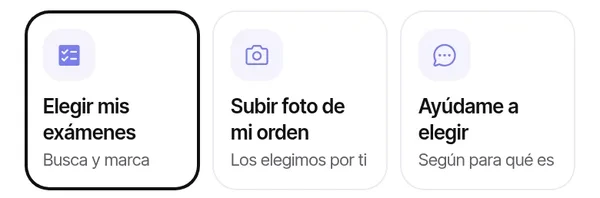
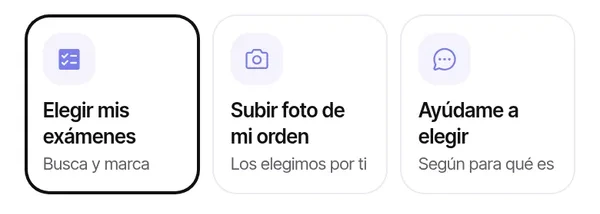
web v13: sin fondo oscuro en el hueco, bordes menos redondeados, más aire bajo las piezas

diff --git a/web/index.html b/web/index.html
@@ -1,18 +1,18 @@
 <!doctype html><html lang="es-CL"><head><meta charset="utf-8"><meta name="viewport" content="width=device-width,initial-scale=1">
 <title>Cuidapp · Enfermería, exámenes y tu ficha de salud en casa</title>
 <meta name="description" content="Enfermeras y TENS verificadas a domicilio, exámenes en casa o en un laboratorio cerca, ficha de salud familiar y reembolso automático a tu Isapre. Santiago.">
-<link rel="icon" href="assets/logo/favicon.svg?v=20261026v12">
-<link rel="preload" href="assets/fonts/InterTight.ttf?v=20261026v12" as="font" type="font/ttf" crossorigin>
-<link rel="stylesheet" href="styles.css?v=20261026v12">
+<link rel="icon" href="assets/logo/favicon.svg?v=20261026v13">
+<link rel="preload" href="assets/fonts/InterTight.ttf?v=20261026v13" as="font" type="font/ttf" crossorigin>
+<link rel="stylesheet" href="styles.css?v=20261026v13">
 <script>if(!matchMedia('(prefers-reduced-motion: reduce)').matches){document.documentElement.classList.add('motion');setTimeout(function(){if(!window.__cuidaReady)document.documentElement.classList.remove('motion')},2500)}</script>
 </head><body>
-<header class="nav"><div class="nav-in"><a class="logo" href="#top" aria-label="Cuidapp, inicio"><img src="assets/logo/cuidapp-horizontal-color.svg?v=20261026v12" alt="Cuidapp" width="84" height="36"></a>
-<img class="nav-mark" src="assets/logo/cuidapp-simbolo-color.svg?v=20261026v12" alt="" width="20" height="27">
+<header class="nav"><div class="nav-in"><a class="logo" href="#top" aria-label="Cuidapp, inicio"><img src="assets/logo/cuidapp-horizontal-color.svg?v=20261026v13" alt="Cuidapp" width="84" height="36"></a>
+<img class="nav-mark" src="assets/logo/cuidapp-simbolo-color.svg?v=20261026v13" alt="" width="20" height="27">
 <a class="btn btn-ink btn-s" href="../?v=m#/P06">Reservar</a></div></header>
 <main><section class="hero" id="top"><div class="hero-in">
-<img class="mark hx" src="assets/logo/cuidapp-simbolo-color.svg?v=20261026v12" alt="" width="54" height="72">
-<h1 class="hl"><span class="l1 hx">Cuidapp<img class="ii" src="assets/emoji/heart.webp?v=20261026v12" alt="" width="64" height="64">, y tienes</span>
-<span class="l2 hx"><span class="sr">una enfermera en tu casa, tus exámenes sin filas, tu ficha siempre contigo y tu reembolso sin trámites</span><span class="rot" aria-hidden="true"><span class="rw on">una enfermera en tu <span class="nw">casa<img class="ii" src="assets/emoji/iny.webp?v=20261026v12" alt="" width="64" height="64"></span></span><span class="rw">tus exámenes sin <span class="nw">filas<img class="ii" src="assets/emoji/drop_of_blood.webp?v=20261026v12" alt="" width="64" height="64"></span></span><span class="rw">tu ficha siempre <span class="nw">contigo<img class="ii" src="assets/emoji/ficha.webp?v=20261026v12" alt="" width="64" height="64"></span></span><span class="rw">tu reembolso sin <span class="nw">trámites<img class="ii" src="assets/emoji/coin.webp?v=20261026v12" alt="" width="64" height="64"></span></span></span></span></h1>
+<img class="mark hx" src="assets/logo/cuidapp-simbolo-color.svg?v=20261026v13" alt="" width="54" height="72">
+<h1 class="hl"><span class="l1 hx">Cuidapp<img class="ii" src="assets/emoji/heart.webp?v=20261026v13" alt="" width="64" height="64">, y tienes</span>
+<span class="l2 hx"><span class="sr">una enfermera en tu casa, tus exámenes sin filas, tu ficha siempre contigo y tu reembolso sin trámites</span><span class="rot" aria-hidden="true"><span class="rw on">una enfermera en tu <span class="nw">casa<img class="ii" src="assets/emoji/iny.webp?v=20261026v13" alt="" width="64" height="64"></span></span><span class="rw">tus exámenes sin <span class="nw">filas<img class="ii" src="assets/emoji/drop_of_blood.webp?v=20261026v13" alt="" width="64" height="64"></span></span><span class="rw">tu ficha siempre <span class="nw">contigo<img class="ii" src="assets/emoji/ficha.webp?v=20261026v13" alt="" width="64" height="64"></span></span><span class="rw">tu reembolso sin <span class="nw">trámites<img class="ii" src="assets/emoji/coin.webp?v=20261026v13" alt="" width="64" height="64"></span></span></span></span></h1>
 <form class="ask" onsubmit="location.href='../?v=m#/P06';return false">
 <label class="lbl hx" for="q">¿Qué necesitas hoy?</label>
 <input class="hx" id="q" name="q" type="text" autocomplete="off" placeholder="Una inyección de vitamina B12">
@@ -24,11 +24,11 @@
 </section><section class="todo band-g" id="todo"><div class="wrap c">
 <h2 class="h2 rv">Cuidado de salud para todo en tu casa</h2>
 <p class="sub rv">Dinos qué necesitas y nos encargamos del resto: desde una inyección o una curación hasta tus exámenes, la ficha de tu familia y el reembolso de tu Isapre.</p>
-<div class="tray rv"><span class="tc"><img class="emo " src="assets/emoji/iny.webp?v=20261026v12" alt="" width="72" height="72" loading="lazy"></span><span class="tc"><img class="emo " src="assets/emoji/vit.webp?v=20261026v12" alt="" width="72" height="72" loading="lazy"></span><span class="tc"><img class="emo " src="assets/emoji/cur.webp?v=20261026v12" alt="" width="72" height="72" loading="lazy"></span><span class="tc"><img class="emo " src="assets/emoji/mue.webp?v=20261026v12" alt="" width="72" height="72" loading="lazy"></span><span class="tc"><img class="emo " src="assets/emoji/cron.webp?v=20261026v12" alt="" width="72" height="72" loading="lazy"></span><span class="tc"><img class="emo " src="assets/emoji/sig.webp?v=20261026v12" alt="" width="72" height="72" loading="lazy"></span><span class="tc"><img class="emo " src="assets/emoji/pd.webp?v=20261026v12" alt="" width="72" height="72" loading="lazy"></span><span class="tc"><img class="emo " src="assets/emoji/turn.webp?v=20261026v12" alt="" width="72" height="72" loading="lazy"></span><span class="tc"><img class="emo " src="assets/emoji/heart.webp?v=20261026v12" alt="" width="72" height="72" loading="lazy"></span><span class="tc"><img class="emo " src="assets/emoji/ficha.webp?v=20261026v12" alt="" width="72" height="72" loading="lazy"></span><span class="tc"><img class="emo " src="assets/emoji/coin.webp?v=20261026v12" alt="" width="72" height="72" loading="lazy"></span><span class="tc"><img class="emo " src="assets/emoji/cura.webp?v=20261026v12" alt="" width="72" height="72" loading="lazy"></span><span class="tc"><img class="emo " src="assets/emoji/son.webp?v=20261026v12" alt="" width="72" height="72" loading="lazy"></span><span class="tc"><img class="emo " src="assets/emoji/tens4.webp?v=20261026v12" alt="" width="72" height="72" loading="lazy"></span><span class="tc"><img class="emo " src="assets/emoji/hw.webp?v=20261026v12" alt="" width="72" height="72" loading="lazy"></span><span class="tc"><img class="emo " src="assets/emoji/house.webp?v=20261026v12" alt="" width="72" height="72" loading="lazy"></span><span class="tc"><img class="emo " src="assets/emoji/microscope.webp?v=20261026v12" alt="" width="72" height="72" loading="lazy"></span><span class="tc"><img class="emo " src="assets/emoji/tearoff_calendar.webp?v=20261026v12" alt="" width="72" height="72" loading="lazy"></span></div>
-</div></section><section class="row band-w side-l" id="enfermera"><div class="wrap row-g"><div class="mock"><div class="phn"><img src="assets/phone/P12.webp?v=20261026v12" alt="Perfil de Camila Rojas con reseñas y precio" width="600" height="1298" loading="lazy"><span class="hole" aria-hidden="true" style="top:87.0px;height:122.2px"></span><img class="pop pop-l" src="assets/pop/perfil.webp?v=20261026v12" alt="Camila Rojas, enfermera, 6 años de experiencia, 4,9 estrellas, SIS verificado, antecedentes revisados, identidad verificada" width="600" height="260" loading="lazy" style="top:87.0px"></div><div class="bo push pa" role="img" aria-label="Notificación de Cuidapp: Tu código de atención. Tu código es 2749. Dáselo a Camila cuando llegue."><div class="push-h"><img src="assets/logo/apple-touch-icon.png?v=20261026v12" alt="" width="20" height="20"><span>Cuidapp</span><span class="t3">ahora</span></div><b>Tu código de atención</b><span>Tu código es 2749. Dáselo a Camila cuando llegue.</span></div><img class="bo bo-b" src="assets/ui/promo.webp?v=20261026v12" alt="Primera atención: 15% de descuento con CUIDA15, hasta $20.000" width="309" loading="lazy"><img class="emo e1" src="assets/emoji/iny.webp?v=20261026v12" alt="" width="64" height="64" loading="lazy"><img class="emo e2" src="assets/emoji/hw.webp?v=20261026v12" alt="" width="64" height="64" loading="lazy"></div><div class="txt"><h2 class="h3 rv">Una enfermera de confianza, en tu puerta</h2><p class="body rv">Enfermeras y TENS con registro verificado en la Superintendencia de Salud. Ves su perfil, sus reseñas y el precio antes de reservar. Desde $15.000.</p></div></div></section><section class="row band-g side-r" id="examenes"><div class="wrap row-g"><div class="mock"><div class="phn"><img src="assets/phone/examenes.webp?v=20261026v12" alt="Exámenes de laboratorio con precio por examen" width="600" height="1298" loading="lazy"><span class="hole" aria-hidden="true" style="top:106.8px;height:93.1px"></span><img class="pop pop-r" src="assets/pop/opciones.webp?v=20261026v12" alt="Elegir mis exámenes, subir foto de mi orden o pedir ayuda para elegir" width="600" height="198" loading="lazy" style="top:106.8px"></div><div class="bo push pc" role="img" aria-label="Notificación de Cuidapp: Los resultados de Rosa están listos. Los ves en su ficha. La notificación no incluye valores."><div class="push-h"><img src="assets/logo/apple-touch-icon.png?v=20261026v12" alt="" width="20" height="20"><span>Cuidapp</span><span class="t3">ahora</span></div><b>Los resultados de Rosa están listos</b><span>Los ves en su ficha. La notificación no incluye valores.</span></div><img class="emo e3" src="assets/emoji/mue.webp?v=20261026v12" alt="" width="64" height="64" loading="lazy"><img class="emo e4" src="assets/emoji/microscope.webp?v=20261026v12" alt="" width="64" height="64" loading="lazy"></div><div class="txt"><h2 class="h3 rv">Exámenes en casa, sin hacer fila</h2><p class="body rv">655 exámenes para elegir. Toman la muestra en tu casa o eliges un laboratorio cerca, con orden médica o sin ella. Los resultados llegan solos a la ficha.</p></div></div></section><section class="row band-w side-l" id="ficha"><div class="wrap row-g"><div class="mock"><div class="phn"><img src="assets/phone/linea.webp?v=20261026v12" alt="Línea de tiempo de Rosa con visitas, curaciones y signos vitales" width="600" height="1298" loading="lazy"><span class="hole" aria-hidden="true" style="top:150.9px;height:88.4px"></span><img class="pop pop-l" src="assets/pop/visita.webp?v=20261026v12" alt="Hoy: inyección IM y curación, registrada por Camila Rojas, enfermera" width="600" height="188" loading="lazy" style="top:150.9px"></div><div class="bo push pd" role="img" aria-label="Notificación de Cuidapp: Resumen de la visita de Rosa. Signos vitales, curación, indicaciones y próximo control."><div class="push-h"><img src="assets/logo/apple-touch-icon.png?v=20261026v12" alt="" width="20" height="20"><span>Cuidapp</span><span class="t3">ahora</span></div><b>Resumen de la visita de Rosa</b><span>Signos vitales, curación, indicaciones y próximo control.</span></div><img class="emo e5" src="assets/emoji/ficha.webp?v=20261026v12" alt="" width="64" height="64" loading="lazy"><img class="emo e6" src="assets/emoji/sig.webp?v=20261026v12" alt="" width="64" height="64" loading="lazy"></div><div class="txt"><h2 class="h3 rv">La ficha de tu familia, siempre contigo</h2><p class="body rv">Resultados, signos vitales, curaciones y controles de cada persona, en orden. La compartes con tu médico cuando quieras.</p></div></div></section><section class="row band-g side-r" id="reembolso"><div class="wrap row-g"><div class="mock"><div class="phn"><img src="assets/phone/reembolso.webp?v=20261026v12" alt="Reembolso de Vitamina D con su estado" width="600" height="1298" loading="lazy"><span class="hole" aria-hidden="true" style="top:190.4px;height:76.1px"></span><img class="pop pop-r" src="assets/pop/montos.webp?v=20261026v12" alt="Monto presentado $31.400, monto reembolsado $18.840, gestión Cuidapp $3.500" width="600" height="162" loading="lazy" style="top:190.4px"></div><div class="bo push pe" role="img" aria-label="Notificación de Cuidapp: Tu reembolso fue pagado. Tu Isapre lo depositó en tu cuenta."><div class="push-h"><img src="assets/logo/apple-touch-icon.png?v=20261026v12" alt="" width="20" height="20"><span>Cuidapp</span><span class="t3">ahora</span></div><b>Tu reembolso fue pagado</b><span>Tu Isapre lo depositó en tu cuenta.</span></div><img class="emo e7" src="assets/emoji/coin.webp?v=20261026v12" alt="" width="64" height="64" loading="lazy"><img class="emo e8" src="assets/emoji/money.webp?v=20261026v12" alt="" width="64" height="64" loading="lazy"></div><div class="txt"><h2 class="h3 rv">Tu reembolso, sin trámites</h2><p class="body rv">Vinculas tu Isapre una vez. Después de cada atención enviamos la boleta y la orden, y sigues la solicitud hasta el pago. La gestión cuesta $3.500.</p><p class="note">Sujeto a las condiciones de cada Isapre. Información general, no es asesoría legal.</p></div></div></section><section class="row band-w side-l" id="isapre"><div class="wrap row-g"><div class="mock"><div class="phn"><img src="assets/phone/cotiza.webp?v=20261026v12" alt="Cotiza tu Isapre: renta, cargas y previsión actual" width="600" height="1298" loading="lazy"><span class="hole" aria-hidden="true" style="top:130.3px;height:76.1px"></span><img class="pop pop-l" src="assets/pop/edad.webp?v=20261026v12" alt="Tu edad: 30 a 39 seleccionado" width="600" height="162" loading="lazy" style="top:130.3px"></div><div class="bo push pf" role="img" aria-label="Notificación de Cuidapp: Recibiste una cotización. Una asesora de Isapre te envió su propuesta."><div class="push-h"><img src="assets/logo/apple-touch-icon.png?v=20261026v12" alt="" width="20" height="20"><span>Cuidapp</span><span class="t3">ahora</span></div><b>Recibiste una cotización</b><span>Una asesora de Isapre te envió su propuesta.</span></div><img class="emo e9" src="assets/emoji/brief.webp?v=20261026v12" alt="" width="64" height="64" loading="lazy"><img class="emo e10" src="assets/emoji/house.webp?v=20261026v12" alt="" width="64" height="64" loading="lazy"></div><div class="txt"><h2 class="h3 rv">Cotiza tu Isapre sin salir de casa</h2><p class="body rv">Cuentas tu edad, tu renta y tus cargas, y asesores de Isapre te mandan su cotización. Es gratis para ti.</p></div></div></section><section class="info band-w" id="info"><div class="wrap info-g"><div><h2 class="h3 rv">Más información sobre Cuidapp</h2><p class="body rv">Lo que más nos preguntan, y cómo sumarte si trabajas en salud.</p></div>
-<div class="list"><details class="li rv"><summary><img class="emo li-i" src="assets/emoji/heart.webp?v=20261026v12" alt="" width="40" height="40" loading="lazy"><span>¿Quiénes me atienden?</span><svg class="chev" viewBox="0 0 20 20" aria-hidden="true"><path d="m8 5 5 5-5 5" fill="none" stroke="currentColor" stroke-width="1.8" stroke-linecap="round" stroke-linejoin="round"/></svg></summary><p>Enfermeras y TENS. Antes de atender revisamos su registro en la Superintendencia de Salud, su identidad y sus antecedentes.</p></details><details class="li rv"><summary><img class="emo li-i" src="assets/emoji/mue.webp?v=20261026v12" alt="" width="40" height="40" loading="lazy"><span>¿Necesito orden médica para hacerme exámenes?</span><svg class="chev" viewBox="0 0 20 20" aria-hidden="true"><path d="m8 5 5 5-5 5" fill="none" stroke="currentColor" stroke-width="1.8" stroke-linecap="round" stroke-linejoin="round"/></svg></summary><p>No es obligatoria. Eliges tus exámenes, subes la foto de tu orden o pides ayuda. Para inyecciones y algunos tratamientos sí te pediremos la receta.</p></details><details class="li rv"><summary><img class="emo li-i" src="assets/emoji/coin.webp?v=20261026v12" alt="" width="40" height="40" loading="lazy"><span>¿Cómo pago? ¿Hay descuento?</span><svg class="chev" viewBox="0 0 20 20" aria-hidden="true"><path d="m8 5 5 5-5 5" fill="none" stroke="currentColor" stroke-width="1.8" stroke-linecap="round" stroke-linejoin="round"/></svg></summary><p>Pagas con tarjeta al reservar y ves el total antes de confirmar. En tu primera atención tienes 15% de descuento, hasta $20.000, con CUIDA15.</p></details><details class="li rv"><summary><img class="emo li-i" src="assets/emoji/ficha.webp?v=20261026v12" alt="" width="40" height="40" loading="lazy"><span>¿Cómo funciona el reembolso automático?</span><svg class="chev" viewBox="0 0 20 20" aria-hidden="true"><path d="m8 5 5 5-5 5" fill="none" stroke="currentColor" stroke-width="1.8" stroke-linecap="round" stroke-linejoin="round"/></svg></summary><p>Vinculas tu Isapre una vez y enviamos la boleta, la orden médica y tu carnet después de cada atención. La gestión cuesta $3.500 y sigues cada solicitud hasta el pago.</p></details><p class="list-h rv" id="aliados">¿Trabajas en salud?</p><a class="li rv" href="../?v=m#/R01"><img class="emo li-i" src="assets/emoji/hw.webp?v=20261026v12" alt="" width="40" height="40" loading="lazy"><span><b>Enfermeras y TENS</b><small>Postula hoy. Kinesiología, psicología y nutrición, muy pronto.</small></span><svg class="chev" viewBox="0 0 20 20" aria-hidden="true"><path d="m8 5 5 5-5 5" fill="none" stroke="currentColor" stroke-width="1.8" stroke-linecap="round" stroke-linejoin="round"/></svg></a><a class="li rv" href="mailto:marceleon91@gmail.com?subject=Quiero%20ser%20aliado%20de%20Cuidapp"><img class="emo li-i" src="assets/emoji/microscope.webp?v=20261026v12" alt="" width="40" height="40" loading="lazy"><span><b>Laboratorios</b><small>Súmate gratis a «Laboratorios cerca de ti».</small></span><svg class="chev" viewBox="0 0 20 20" aria-hidden="true"><path d="m8 5 5 5-5 5" fill="none" stroke="currentColor" stroke-width="1.8" stroke-linecap="round" stroke-linejoin="round"/></svg></a><a class="li rv" href="mailto:marceleon91@gmail.com?subject=Quiero%20ser%20aliado%20de%20Cuidapp"><img class="emo li-i" src="assets/emoji/brief.webp?v=20261026v12" alt="" width="40" height="40" loading="lazy"><span><b>Asesores de Isapre</b><small>Recibe solicitudes de cotización con un plan mensual.</small></span><svg class="chev" viewBox="0 0 20 20" aria-hidden="true"><path d="m8 5 5 5-5 5" fill="none" stroke="currentColor" stroke-width="1.8" stroke-linecap="round" stroke-linejoin="round"/></svg></a><a class="li rv" href="mailto:marceleon91@gmail.com?subject=Quiero%20ser%20aliado%20de%20Cuidapp"><img class="emo li-i" src="assets/emoji/vit.webp?v=20261026v12" alt="" width="40" height="40" loading="lazy"><span><b>Farmacias</b><small>Entrega de medicamentos. <span class="tag">Muy pronto</span></small></span><svg class="chev" viewBox="0 0 20 20" aria-hidden="true"><path d="m8 5 5 5-5 5" fill="none" stroke="currentColor" stroke-width="1.8" stroke-linecap="round" stroke-linejoin="round"/></svg></a></div></div></section><section class="cta band-w"><div class="wrap c"><h2 class="h2 rv">¿Agendamos tu primera atención?</h2>
+<div class="tray rv"><span class="tc"><img class="emo " src="assets/emoji/iny.webp?v=20261026v13" alt="" width="72" height="72" loading="lazy"></span><span class="tc"><img class="emo " src="assets/emoji/vit.webp?v=20261026v13" alt="" width="72" height="72" loading="lazy"></span><span class="tc"><img class="emo " src="assets/emoji/cur.webp?v=20261026v13" alt="" width="72" height="72" loading="lazy"></span><span class="tc"><img class="emo " src="assets/emoji/mue.webp?v=20261026v13" alt="" width="72" height="72" loading="lazy"></span><span class="tc"><img class="emo " src="assets/emoji/cron.webp?v=20261026v13" alt="" width="72" height="72" loading="lazy"></span><span class="tc"><img class="emo " src="assets/emoji/sig.webp?v=20261026v13" alt="" width="72" height="72" loading="lazy"></span><span class="tc"><img class="emo " src="assets/emoji/pd.webp?v=20261026v13" alt="" width="72" height="72" loading="lazy"></span><span class="tc"><img class="emo " src="assets/emoji/turn.webp?v=20261026v13" alt="" width="72" height="72" loading="lazy"></span><span class="tc"><img class="emo " src="assets/emoji/heart.webp?v=20261026v13" alt="" width="72" height="72" loading="lazy"></span><span class="tc"><img class="emo " src="assets/emoji/ficha.webp?v=20261026v13" alt="" width="72" height="72" loading="lazy"></span><span class="tc"><img class="emo " src="assets/emoji/coin.webp?v=20261026v13" alt="" width="72" height="72" loading="lazy"></span><span class="tc"><img class="emo " src="assets/emoji/cura.webp?v=20261026v13" alt="" width="72" height="72" loading="lazy"></span><span class="tc"><img class="emo " src="assets/emoji/son.webp?v=20261026v13" alt="" width="72" height="72" loading="lazy"></span><span class="tc"><img class="emo " src="assets/emoji/tens4.webp?v=20261026v13" alt="" width="72" height="72" loading="lazy"></span><span class="tc"><img class="emo " src="assets/emoji/hw.webp?v=20261026v13" alt="" width="72" height="72" loading="lazy"></span><span class="tc"><img class="emo " src="assets/emoji/house.webp?v=20261026v13" alt="" width="72" height="72" loading="lazy"></span><span class="tc"><img class="emo " src="assets/emoji/microscope.webp?v=20261026v13" alt="" width="72" height="72" loading="lazy"></span><span class="tc"><img class="emo " src="assets/emoji/tearoff_calendar.webp?v=20261026v13" alt="" width="72" height="72" loading="lazy"></span></div>
+</div></section><section class="row band-w side-l" id="enfermera"><div class="wrap row-g"><div class="mock"><div class="phn"><img src="assets/phone/P12.webp?v=20261026v13" alt="Perfil de Camila Rojas con reseñas y precio" width="600" height="1298" loading="lazy"><span class="hole" aria-hidden="true" style="top:87.0px;height:129.7px"></span><img class="pop pop-l" src="assets/pop/perfil.webp?v=20261026v13" alt="Camila Rojas, enfermera, 6 años de experiencia, 4,9 estrellas, SIS verificado, antecedentes revisados, identidad verificada" width="600" height="276" loading="lazy" style="top:87.0px"></div><div class="bo push pa" role="img" aria-label="Notificación de Cuidapp: Tu código de atención. Tu código es 2749. Dáselo a Camila cuando llegue."><div class="push-h"><img src="assets/logo/apple-touch-icon.png?v=20261026v13" alt="" width="20" height="20"><span>Cuidapp</span><span class="t3">ahora</span></div><b>Tu código de atención</b><span>Tu código es 2749. Dáselo a Camila cuando llegue.</span></div><img class="bo bo-b" src="assets/ui/promo.webp?v=20261026v13" alt="Primera atención: 15% de descuento con CUIDA15, hasta $20.000" width="309" loading="lazy"><img class="emo e1" src="assets/emoji/iny.webp?v=20261026v13" alt="" width="64" height="64" loading="lazy"><img class="emo e2" src="assets/emoji/hw.webp?v=20261026v13" alt="" width="64" height="64" loading="lazy"></div><div class="txt"><h2 class="h3 rv">Una enfermera de confianza, en tu puerta</h2><p class="body rv">Enfermeras y TENS con registro verificado en la Superintendencia de Salud. Ves su perfil, sus reseñas y el precio antes de reservar. Desde $15.000.</p></div></div></section><section class="row band-g side-r" id="examenes"><div class="wrap row-g"><div class="mock"><div class="phn"><img src="assets/phone/examenes.webp?v=20261026v13" alt="Exámenes de laboratorio con precio por examen" width="600" height="1298" loading="lazy"><span class="hole" aria-hidden="true" style="top:104.9px;height:100.6px"></span><img class="pop pop-r" src="assets/pop/opciones.webp?v=20261026v13" alt="Elegir mis exámenes, subir foto de mi orden o pedir ayuda para elegir" width="600" height="214" loading="lazy" style="top:104.9px"></div><div class="bo push pc" role="img" aria-label="Notificación de Cuidapp: Los resultados de Rosa están listos. Los ves en su ficha. La notificación no incluye valores."><div class="push-h"><img src="assets/logo/apple-touch-icon.png?v=20261026v13" alt="" width="20" height="20"><span>Cuidapp</span><span class="t3">ahora</span></div><b>Los resultados de Rosa están listos</b><span>Los ves en su ficha. La notificación no incluye valores.</span></div><img class="emo e3" src="assets/emoji/mue.webp?v=20261026v13" alt="" width="64" height="64" loading="lazy"><img class="emo e4" src="assets/emoji/microscope.webp?v=20261026v13" alt="" width="64" height="64" loading="lazy"></div><div class="txt"><h2 class="h3 rv">Exámenes en casa, sin hacer fila</h2><p class="body rv">655 exámenes para elegir. Toman la muestra en tu casa o eliges un laboratorio cerca, con orden médica o sin ella. Los resultados llegan solos a la ficha.</p></div></div></section><section class="row band-w side-l" id="ficha"><div class="wrap row-g"><div class="mock"><div class="phn"><img src="assets/phone/linea.webp?v=20261026v13" alt="Línea de tiempo de Rosa con visitas, curaciones y signos vitales" width="600" height="1298" loading="lazy"><span class="hole" aria-hidden="true" style="top:150.0px;height:94.0px"></span><img class="pop pop-l" src="assets/pop/visita.webp?v=20261026v13" alt="Hoy: inyección IM y curación, registrada por Camila Rojas, enfermera" width="600" height="200" loading="lazy" style="top:150.0px"></div><div class="bo push pd" role="img" aria-label="Notificación de Cuidapp: Resumen de la visita de Rosa. Signos vitales, curación, indicaciones y próximo control."><div class="push-h"><img src="assets/logo/apple-touch-icon.png?v=20261026v13" alt="" width="20" height="20"><span>Cuidapp</span><span class="t3">ahora</span></div><b>Resumen de la visita de Rosa</b><span>Signos vitales, curación, indicaciones y próximo control.</span></div><img class="emo e5" src="assets/emoji/ficha.webp?v=20261026v13" alt="" width="64" height="64" loading="lazy"><img class="emo e6" src="assets/emoji/sig.webp?v=20261026v13" alt="" width="64" height="64" loading="lazy"></div><div class="txt"><h2 class="h3 rv">La ficha de tu familia, siempre contigo</h2><p class="body rv">Resultados, signos vitales, curaciones y controles de cada persona, en orden. La compartes con tu médico cuando quieras.</p></div></div></section><section class="row band-g side-r" id="reembolso"><div class="wrap row-g"><div class="mock"><div class="phn"><img src="assets/phone/reembolso.webp?v=20261026v13" alt="Reembolso de Vitamina D con su estado" width="600" height="1298" loading="lazy"><span class="hole" aria-hidden="true" style="top:188.5px;height:81.8px"></span><img class="pop pop-r" src="assets/pop/montos.webp?v=20261026v13" alt="Monto presentado $31.400, monto reembolsado $18.840, gestión Cuidapp $3.500" width="600" height="174" loading="lazy" style="top:188.5px"></div><div class="bo push pe" role="img" aria-label="Notificación de Cuidapp: Tu reembolso fue pagado. Tu Isapre lo depositó en tu cuenta."><div class="push-h"><img src="assets/logo/apple-touch-icon.png?v=20261026v13" alt="" width="20" height="20"><span>Cuidapp</span><span class="t3">ahora</span></div><b>Tu reembolso fue pagado</b><span>Tu Isapre lo depositó en tu cuenta.</span></div><img class="emo e7" src="assets/emoji/coin.webp?v=20261026v13" alt="" width="64" height="64" loading="lazy"><img class="emo e8" src="assets/emoji/money.webp?v=20261026v13" alt="" width="64" height="64" loading="lazy"></div><div class="txt"><h2 class="h3 rv">Tu reembolso, sin trámites</h2><p class="body rv">Vinculas tu Isapre una vez. Después de cada atención enviamos la boleta y la orden, y sigues la solicitud hasta el pago. La gestión cuesta $3.500.</p><p class="note">Sujeto a las condiciones de cada Isapre. Información general, no es asesoría legal.</p></div></div></section><section class="row band-w side-l" id="isapre"><div class="wrap row-g"><div class="mock"><div class="phn"><img src="assets/phone/cotiza.webp?v=20261026v13" alt="Cotiza tu Isapre: renta, cargas y previsión actual" width="600" height="1298" loading="lazy"><span class="hole" aria-hidden="true" style="top:129.3px;height:81.8px"></span><img class="pop pop-l" src="assets/pop/edad.webp?v=20261026v13" alt="Tu edad: 30 a 39 seleccionado" width="600" height="174" loading="lazy" style="top:129.3px"></div><div class="bo push pf" role="img" aria-label="Notificación de Cuidapp: Recibiste una cotización. Una asesora de Isapre te envió su propuesta."><div class="push-h"><img src="assets/logo/apple-touch-icon.png?v=20261026v13" alt="" width="20" height="20"><span>Cuidapp</span><span class="t3">ahora</span></div><b>Recibiste una cotización</b><span>Una asesora de Isapre te envió su propuesta.</span></div><img class="emo e9" src="assets/emoji/brief.webp?v=20261026v13" alt="" width="64" height="64" loading="lazy"><img class="emo e10" src="assets/emoji/house.webp?v=20261026v13" alt="" width="64" height="64" loading="lazy"></div><div class="txt"><h2 class="h3 rv">Cotiza tu Isapre sin salir de casa</h2><p class="body rv">Cuentas tu edad, tu renta y tus cargas, y asesores de Isapre te mandan su cotización. Es gratis para ti.</p></div></div></section><section class="info band-w" id="info"><div class="wrap info-g"><div><h2 class="h3 rv">Más información sobre Cuidapp</h2><p class="body rv">Lo que más nos preguntan, y cómo sumarte si trabajas en salud.</p></div>
+<div class="list"><details class="li rv"><summary><img class="emo li-i" src="assets/emoji/heart.webp?v=20261026v13" alt="" width="40" height="40" loading="lazy"><span>¿Quiénes me atienden?</span><svg class="chev" viewBox="0 0 20 20" aria-hidden="true"><path d="m8 5 5 5-5 5" fill="none" stroke="currentColor" stroke-width="1.8" stroke-linecap="round" stroke-linejoin="round"/></svg></summary><p>Enfermeras y TENS. Antes de atender revisamos su registro en la Superintendencia de Salud, su identidad y sus antecedentes.</p></details><details class="li rv"><summary><img class="emo li-i" src="assets/emoji/mue.webp?v=20261026v13" alt="" width="40" height="40" loading="lazy"><span>¿Necesito orden médica para hacerme exámenes?</span><svg class="chev" viewBox="0 0 20 20" aria-hidden="true"><path d="m8 5 5 5-5 5" fill="none" stroke="currentColor" stroke-width="1.8" stroke-linecap="round" stroke-linejoin="round"/></svg></summary><p>No es obligatoria. Eliges tus exámenes, subes la foto de tu orden o pides ayuda. Para inyecciones y algunos tratamientos sí te pediremos la receta.</p></details><details class="li rv"><summary><img class="emo li-i" src="assets/emoji/coin.webp?v=20261026v13" alt="" width="40" height="40" loading="lazy"><span>¿Cómo pago? ¿Hay descuento?</span><svg class="chev" viewBox="0 0 20 20" aria-hidden="true"><path d="m8 5 5 5-5 5" fill="none" stroke="currentColor" stroke-width="1.8" stroke-linecap="round" stroke-linejoin="round"/></svg></summary><p>Pagas con tarjeta al reservar y ves el total antes de confirmar. En tu primera atención tienes 15% de descuento, hasta $20.000, con CUIDA15.</p></details><details class="li rv"><summary><img class="emo li-i" src="assets/emoji/ficha.webp?v=20261026v13" alt="" width="40" height="40" loading="lazy"><span>¿Cómo funciona el reembolso automático?</span><svg class="chev" viewBox="0 0 20 20" aria-hidden="true"><path d="m8 5 5 5-5 5" fill="none" stroke="currentColor" stroke-width="1.8" stroke-linecap="round" stroke-linejoin="round"/></svg></summary><p>Vinculas tu Isapre una vez y enviamos la boleta, la orden médica y tu carnet después de cada atención. La gestión cuesta $3.500 y sigues cada solicitud hasta el pago.</p></details><p class="list-h rv" id="aliados">¿Trabajas en salud?</p><a class="li rv" href="../?v=m#/R01"><img class="emo li-i" src="assets/emoji/hw.webp?v=20261026v13" alt="" width="40" height="40" loading="lazy"><span><b>Enfermeras y TENS</b><small>Postula hoy. Kinesiología, psicología y nutrición, muy pronto.</small></span><svg class="chev" viewBox="0 0 20 20" aria-hidden="true"><path d="m8 5 5 5-5 5" fill="none" stroke="currentColor" stroke-width="1.8" stroke-linecap="round" stroke-linejoin="round"/></svg></a><a class="li rv" href="mailto:marceleon91@gmail.com?subject=Quiero%20ser%20aliado%20de%20Cuidapp"><img class="emo li-i" src="assets/emoji/microscope.webp?v=20261026v13" alt="" width="40" height="40" loading="lazy"><span><b>Laboratorios</b><small>Súmate gratis a «Laboratorios cerca de ti».</small></span><svg class="chev" viewBox="0 0 20 20" aria-hidden="true"><path d="m8 5 5 5-5 5" fill="none" stroke="currentColor" stroke-width="1.8" stroke-linecap="round" stroke-linejoin="round"/></svg></a><a class="li rv" href="mailto:marceleon91@gmail.com?subject=Quiero%20ser%20aliado%20de%20Cuidapp"><img class="emo li-i" src="assets/emoji/brief.webp?v=20261026v13" alt="" width="40" height="40" loading="lazy"><span><b>Asesores de Isapre</b><small>Recibe solicitudes de cotización con un plan mensual.</small></span><svg class="chev" viewBox="0 0 20 20" aria-hidden="true"><path d="m8 5 5 5-5 5" fill="none" stroke="currentColor" stroke-width="1.8" stroke-linecap="round" stroke-linejoin="round"/></svg></a><a class="li rv" href="mailto:marceleon91@gmail.com?subject=Quiero%20ser%20aliado%20de%20Cuidapp"><img class="emo li-i" src="assets/emoji/vit.webp?v=20261026v13" alt="" width="40" height="40" loading="lazy"><span><b>Farmacias</b><small>Entrega de medicamentos. <span class="tag">Muy pronto</span></small></span><svg class="chev" viewBox="0 0 20 20" aria-hidden="true"><path d="m8 5 5 5-5 5" fill="none" stroke="currentColor" stroke-width="1.8" stroke-linecap="round" stroke-linejoin="round"/></svg></a></div></div></section><section class="cta band-w"><div class="wrap c"><h2 class="h2 rv">¿Agendamos tu primera atención?</h2>
 <div class="cta-b rv"><a class="btn btn-ink" href="../?v=m#/P06">Reservar una atención</a></div><div class="rv"><div class="stores"><a class="store" href="../?v=m#/P06" aria-label="Descárgalo en el App Store"><svg viewBox="0 0 24 24" aria-hidden="true"><path fill="#fff" d="M16.37 12.6c-.02-2.3 1.88-3.4 1.96-3.46-1.07-1.56-2.73-1.78-3.32-1.8-1.41-.14-2.76.83-3.47.83-.72 0-1.82-.81-2.99-.79-1.54.02-2.96.9-3.75 2.27-1.6 2.78-.41 6.89 1.15 9.14.76 1.1 1.67 2.34 2.86 2.3 1.15-.05 1.58-.74 2.97-.74 1.38 0 1.78.74 2.99.72 1.24-.02 2.02-1.12 2.77-2.23.88-1.28 1.24-2.52 1.26-2.59-.03-.01-2.41-.93-2.43-3.65zM14.1 5.83c.63-.77 1.06-1.83.94-2.89-.91.04-2.01.61-2.67 1.37-.58.67-1.09 1.76-.96 2.8 1.02.08 2.06-.52 2.69-1.28z"/></svg><span><small>Descárgalo en el</small><b>App Store</b></span></a><a class="store" href="../?v=m#/P06" aria-label="Disponible en Google Play"><svg viewBox="0 0 24 24" aria-hidden="true"><path fill="#00C3FF" d="M3.6 2.3c-.2.2-.3.6-.3 1v17.4c0 .4.1.8.3 1l9.7-9.7z"/><path fill="#00E676" d="M16.5 8.6 5.1 2.1c-.6-.3-1.1-.3-1.5.2l9.7 9.7z"/><path fill="#FF3A44" d="M13.3 12l-9.7 9.7c.4.4.9.5 1.5.2l11.4-6.5z"/><path fill="#FFC400" d="M20.1 10.6l-3.6-2-3.2 3.4 3.2 3.4 3.6-2c1-.6 1-2.2 0-2.8z"/></svg><span><small>DISPONIBLE EN</small><b>Google Play</b></span></a></div></div>
 <p class="c15 rv"><b>CUIDA15</b> · 15% en tu primera atención, hasta $20.000</p></div></section></main>
-<footer class="foot"><div class="foot-in"><span>© 2026 Cuidapp · Santiago de Chile</span><span class="foot-l"><a href="#info">Preguntas</a><a href="#aliados">Trabaja con nosotros</a><a href="mailto:marceleon91@gmail.com?subject=Quiero%20ser%20aliado%20de%20Cuidapp">Contacto</a></span><img src="assets/logo/cuidapp-horizontal-color.svg?v=20261026v12" alt="Cuidapp" width="70" height="30"></div></footer>
-<script src="assets/js/gsap.min.js?v=20261026v12" defer></script><script src="assets/js/ScrollTrigger.min.js?v=20261026v12" defer></script><script src="assets/js/lenis.min.js?v=20261026v12" defer></script><script src="main.js?v=20261026v12" defer></script>
+<footer class="foot"><div class="foot-in"><span>© 2026 Cuidapp · Santiago de Chile</span><span class="foot-l"><a href="#info">Preguntas</a><a href="#aliados">Trabaja con nosotros</a><a href="mailto:marceleon91@gmail.com?subject=Quiero%20ser%20aliado%20de%20Cuidapp">Contacto</a></span><img src="assets/logo/cuidapp-horizontal-color.svg?v=20261026v13" alt="Cuidapp" width="70" height="30"></div></footer>
+<script src="assets/js/gsap.min.js?v=20261026v13" defer></script><script src="assets/js/ScrollTrigger.min.js?v=20261026v13" defer></script><script src="assets/js/lenis.min.js?v=20261026v13" defer></script><script src="main.js?v=20261026v13" defer></script>
 </body></html>

diff --git a/web/styles.css b/web/styles.css
@@ -1,4 +1,4 @@
-@font-face{font-family:"Inter Tight";src:url(assets/fonts/InterTight.ttf?v=20261026v12) format("truetype");font-weight:100 900;font-display:swap}
+@font-face{font-family:"Inter Tight";src:url(assets/fonts/InterTight.ttf?v=20261026v13) format("truetype");font-weight:100 900;font-display:swap}
 :root{--ink:#111;--ink2:#5F5E6B;--ink3:#8B8A97;--lav:#7A7CF0;--lavt:#5557D9;--ind:#2A1F66;--pink:#FFA8CD;--w:#FBFBFC;--g:#F3F3F6;--line:rgba(17,17,17,.08);--e:cubic-bezier(.22,1,.36,1)}
 *{box-sizing:border-box;margin:0;padding:0}
 html{-webkit-text-size-adjust:100%}
@@ -65,15 +65,15 @@ button,input{font:inherit}
 .mock{position:relative;height:700px;width:560px;justify-self:center}
 .phn{position:absolute;left:130px;top:24px;width:300px;padding:9px;background:#fff;border-radius:48px;box-shadow:0 0 0 1px rgba(17,17,17,.07),0 30px 60px -30px rgba(42,31,102,.25)}
 .phn img{border-radius:40px;width:100%;height:auto}
-.bo{position:absolute;z-index:2;height:auto;background:#fff;border-radius:18px;box-shadow:0 18px 40px -12px rgba(17,17,17,.18),0 0 0 1px rgba(17,17,17,.05)}
+.bo{position:absolute;z-index:2;height:auto;background:#fff;border-radius:11px;box-shadow:0 18px 40px -12px rgba(17,17,17,.18),0 0 0 1px rgba(17,17,17,.05)}
 .emo{position:absolute;z-index:3;width:76px;height:76px;object-fit:contain;filter:drop-shadow(0 12px 14px rgba(17,17,17,.14))}
-.push{width:228px;padding:9px 11px;border-radius:15px;background:rgba(246,245,251,.97);font-size:11.5px;line-height:15px;color:#5b5b66;-webkit-backdrop-filter:blur(12px);backdrop-filter:blur(12px)}
+.push{width:228px;padding:9px 11px;border-radius:11px;background:rgba(246,245,251,.97);font-size:11.5px;line-height:15px;color:#5b5b66;-webkit-backdrop-filter:blur(12px);backdrop-filter:blur(12px)}
 .push-h{display:flex;align-items:center;gap:5px;font-size:10px;color:#6b6b76;margin-bottom:3px}.push-h img{width:15px;height:15px;border-radius:4px}.push-h .t3{margin-left:auto;color:#9a9aa5}
 .push b{display:block;font-weight:600;color:#111;font-size:12px}
-.hole{position:absolute;left:19px;right:19px;border-radius:14px;background:#F1F0F6;box-shadow:inset 0 0 0 1px rgba(17,17,17,.05)}
-.pop{position:absolute;left:9px;width:282px;height:auto;z-index:4;border-radius:14px;background:#fff;transform-origin:50% 50%;box-shadow:0 18px 40px -14px rgba(17,17,17,.18),0 0 0 1px rgba(17,17,17,.06)}
-.pop-l{transform:translate(-84px,14px) scale(1.08)}.pop-r{transform:translate(84px,14px) scale(1.08)}
-.pa{left:352px;top:300px}.bo-b{width:190px;left:362px;top:462px;border-radius:12px}.e1{left:440px;top:96px;width:84px;height:84px;transform:rotate(18deg)}.e2{left:40px;top:500px}
+.hole{position:absolute;left:12px;right:12px;background:#fff}
+.pop{position:absolute;left:9px;width:282px;height:auto;z-index:4;background:#fff;transform-origin:50% 50%;box-shadow:0 18px 40px -14px rgba(17,17,17,.18),0 0 0 1px rgba(17,17,17,.06)}
+.phn .pop{border-radius:10px}.pop-l{transform:translate(-84px,4px) scale(1.08)}.pop-r{transform:translate(84px,4px) scale(1.08)}
+.pa{left:352px;top:300px}.bo-b{width:190px;left:362px;top:462px;border-radius:9px}.e1{left:440px;top:96px;width:84px;height:84px;transform:rotate(18deg)}.e2{left:40px;top:500px}
 .pc{left:-22px;top:400px}.e3{left:40px;top:96px;width:90px;height:90px}.e4{left:440px;top:470px}
 .pd{left:352px;top:420px}.e5{left:440px;top:110px;width:84px;height:84px}.e6{left:40px;top:470px}
 .pe{left:-22px;top:440px}.e7{left:40px;top:150px}.e8{left:450px;top:470px;width:90px;height:90px}
